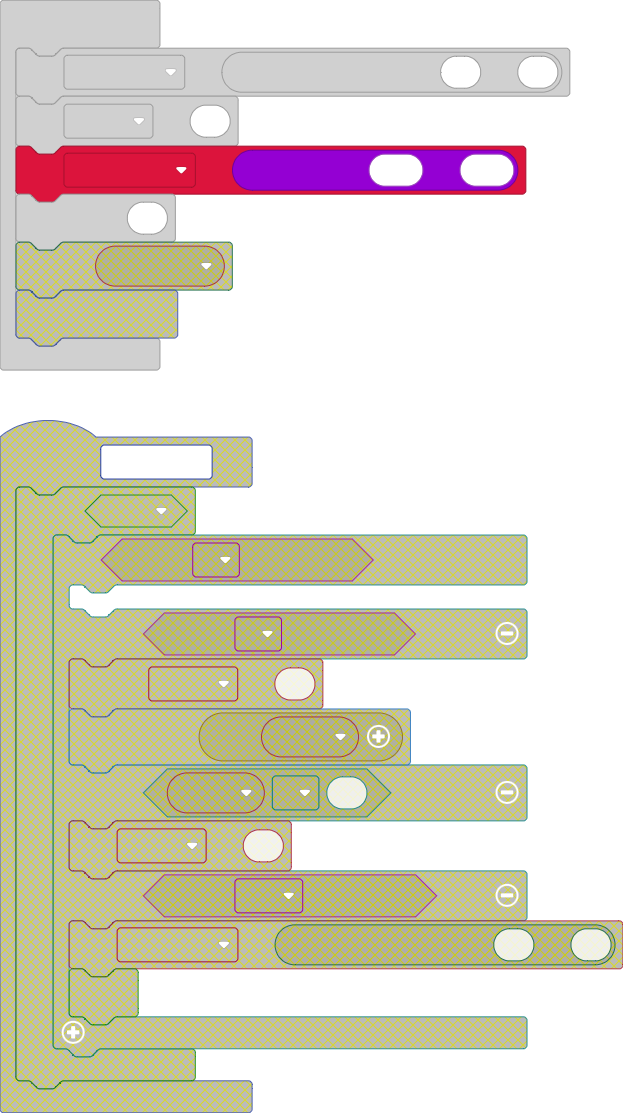
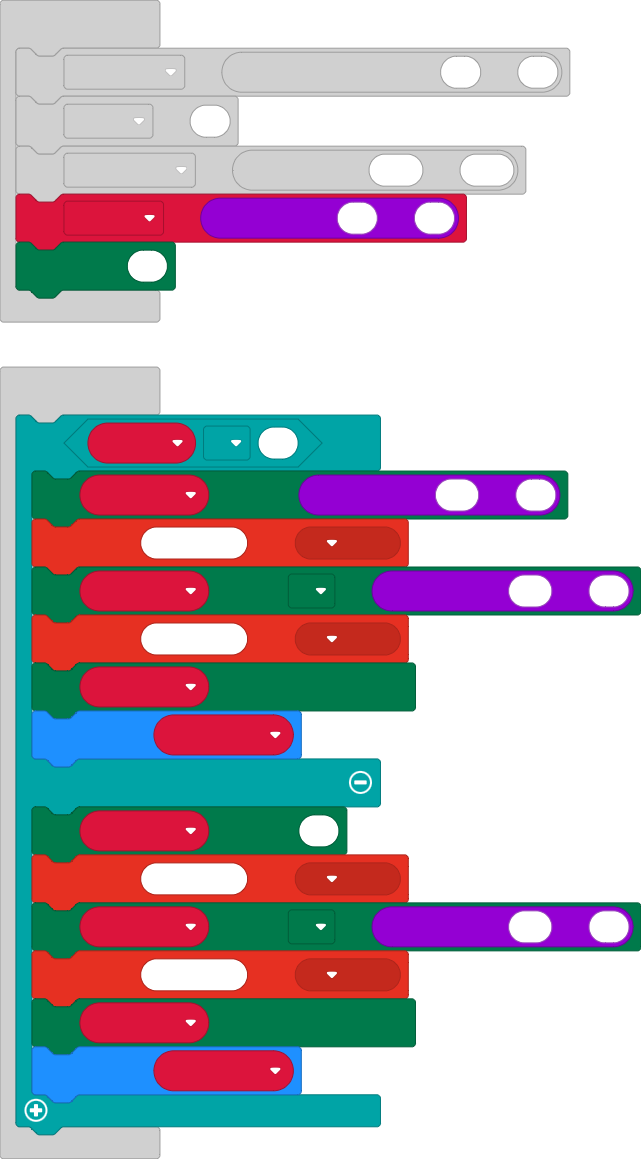
Update main.blocks, main.ts, main.py

diff --git a/main.ts b/main.ts
@@ -11,9 +11,22 @@ let Position: game.LedSprite = null
 Position = game.createSprite(2, 2)
 let Level = 1
 Intervine = randint(400, 500)
+let Depend = randint(1, 0)
 game.setScore(0)
 basic.forever(function () {
-    Position.move(1)
-    Position.ifOnEdgeBounce()
-    basic.pause(Intervine)
+    if (Depend == 1) {
+        Position.move(randint(-2, 2))
+        music.playTone(262, music.beat(BeatFraction.Whole))
+        Position.change(LedSpriteProperty.Y, randint(-2, 2))
+        music.playTone(262, music.beat(BeatFraction.Whole))
+        Position.ifOnEdgeBounce()
+        basic.pause(Intervine)
+    } else {
+        Position.move(1)
+        music.playTone(262, music.beat(BeatFraction.Whole))
+        Position.change(LedSpriteProperty.Y, randint(-1, 1))
+        music.playTone(262, music.beat(BeatFraction.Whole))
+        Position.ifOnEdgeBounce()
+        basic.pause(Intervine)
+    }
 })

diff --git a/main.py b/main.py
@@ -1,38 +1,27 @@
-def Set_level():
-    global Level, Position
-    while True:
-        if input.button_is_pressed(Button.A):
-            pass
-        elif input.button_is_pressed(Button.B):
-            Level += 1
-            basic.show_string("" + str(Level))
-        elif Level <= 0:
-            Level = 0
-        elif input.button_is_pressed(Button.AB):
-            Position = game.create_sprite(2, 2)
-            break
-
-def on_button_pressed_a():
-    global Intervine
-    if Position.get(LedSpriteProperty.X) == 2:
-        game.add_score(1)
+input.onButtonPressed(Button.A, function () {
+    if (Position.get(LedSpriteProperty.X) == 2) {
+        game.addScore(1)
         Intervine = Intervine - 50
-    else:
-        game.game_over()
-input.on_button_pressed(Button.A, on_button_pressed_a)
-
-Intervine = 0
-Level = 0
-Position: game.LedSprite = None
-Position = game.create_sprite(2, 2)
-Level = 1
-Intervine = 500
-game.set_score(0)
-Position.delete()
-Set_level()
-
-def on_forever():
-    Position.move(1)
-    Position.if_on_edge_bounce()
-    basic.pause(Intervine)
-basic.forever(on_forever)
+    } else {
+        game.gameOver()
+    }
+})
+let Intervine = 0
+let Position: game.LedSprite = null
+Position = game.createSprite(2, 2)
+let Level: string = 1
+Intervine = randint(400, 500)
+game.setScore(0)
+basic.forever(function () {
+    if (Level == "") {
+        Position.move(randint(-2, 2))
+        Position.change(LedSpriteProperty.Y, randint(-2, 2))
+        Position.ifOnEdgeBounce()
+        basic.pause(Intervine)
+    } else {
+        Position.move(1)
+        Position.change(LedSpriteProperty.Y, 1)
+        Position.ifOnEdgeBounce()
+        basic.pause(Intervine)
+    }
+})
